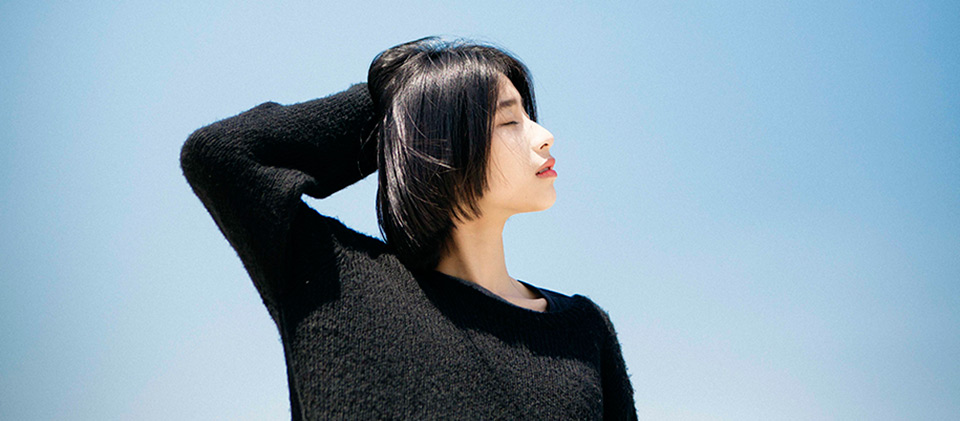
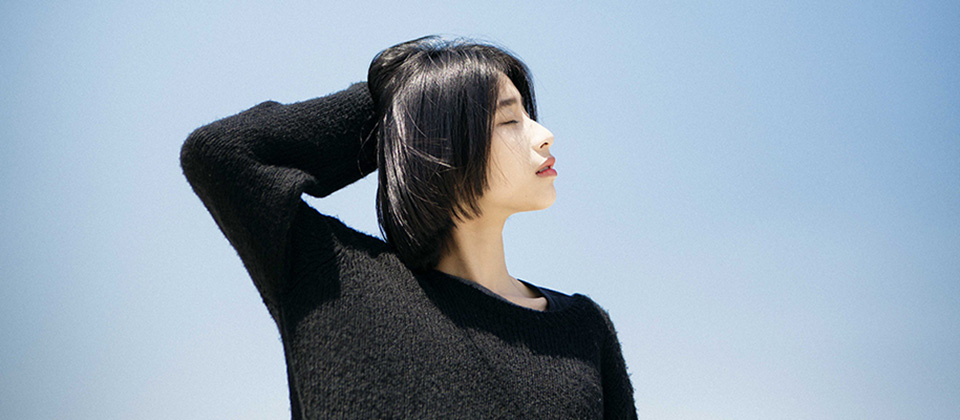
dev

diff --git a/public/css/index.css b/public/css/index.css
@@ -1,2 +1,2 @@
-nav{position:relative;width:100%}nav .nav-top{height:36px;background-color:#f6f6f6;font-family:"Microsoft YaHei"}nav .nav-top .nav-top-detail{position:relative;width:960px;height:36px;margin:0 auto}nav .nav-top .nav-top-detail ul,nav .nav-top .nav-top-detail li{display:inline-block;cursor:pointer;color:#282828;overflow:hidden}nav .nav-top .nav-top-detail li{padding:0 10px;margin-top:11px}nav .nav-top .nav-top-detail .left{float:left;margin-left:-6px}nav .nav-top .nav-top-detail .left li{padding-left:8px;border-left:2px solid #ebebeb;margin-left:-2px}nav .nav-top .nav-top-detail .right{float:right;position:relative;margin-right:-9px}nav .nav-top .nav-top-detail .right li{padding-left:8px;border-left:2px solid #ebebeb;margin-left:-2px}nav .nav-top .nav-top-detail .right li.mobile{padding-left:25px}nav .nav-top .nav-top-detail .right .i-mobile{display:inline-block;background:url(../img/top_icons.png) no-repeat;width:11px;height:14px;background-position:-20px -40px;margin-right:5px;margin-top:2px;position:absolute;top:8px;left:160px;background-color:#f6f6f6}nav .nav-header{height:70px;background-color:#fff}nav .nav-header em{display:inline-block;float:left;width:58px;height:34px;background:url(../img/sprite.png) no-repeat -135px -81px;transform:scale(1.1);-webkit-transform:scale(1.1);margin-top:16px}nav .nav-header .content{position:relative;width:960px;margin:0 auto}nav .nav-header .content img{position:relative;top:20px}nav .nav-header .content .search-bar{display:inline-block;float:right;position:relative;margin-top:15px}nav .nav-header .content .search-bar input{padding-right:83px;width:309px;height:18px;font-size:14px;padding:10px 66px 10px 10px;border:1px solid #e3e3e3;border-top-right-radius:2px;border-bottom-right-radius:2px}nav .nav-header .content .search-bar input:focus{border:1px solid #1fb495}nav .nav-header .content .search-bar .search-btn{position:absolute;box-sizing:border-box;top:0;right:0;width:70px;height:40px;cursor:pointer;text-align:center;line-height:40px;border:1px solid #e3e3e3;color:#999;border-top-right-radius:2px;border-bottom-right-radius:2px}nav .nav-header .content .search-bar .search-btn:hover{background-color:#38c9ab;color:#fff}nav .nav-header .content .search-bar .search-btn-foucs{background-color:#1fb495;border:1px solid #38c9ab;color:#fff}nav .nav-bar{position:relative;background-color:#1fb495;border-bottom:1px solid #19b494;width:100%;height:39px;line-height:40px;box-shadow:0 2px 2px rgba(0,0,0,0.1);-webkit-box-shadow:0 2px 2px rgba(0,0,0,0.1);z-index:3}nav .nav-bar .nav-bar-menu{width:960px;margin:0 auto;font-size:16px;overflow:hidden}nav .nav-bar .nav-bar-menu span{display:inline-block;height:40px;padding:0 25px;line-height:40px;border-right:1px solid #29a98f;color:#fff}nav .nav-bar .nav-bar-menu span.left{float:left}nav .nav-bar .nav-bar-menu span.right{float:right;margin-right:0;border-left:1px solid #29a98f}nav .nav-bar .nav-bar-menu span.right i{display:inline-block;width:16px;height:16px;margin-right:8px;position:relative;top:2px;background:url(../img/ren_icon.png) no-repeat}nav .nav-bar .nav-bar-menu .active{background-color:#38c9ab}nav .nav-bar .nav-bar-menu span.index{border-left:1px solid #29a98f;padding-left:20px;padding-right:61px}nav .nav-bar .nav-bar-menu span:hover{cursor:pointer;background-color:#38c9ab}nav .nav-bar .nav-bar-menu span.span-hover{cursor:pointer;background-color:#38c9ab}nav .nav-bar .nav-bar-layout{display:none;position:absolute;z-index:999999;top:40px;height:148px;width:100%;background-color:#f1f1f1;background-color:rgba(241,241,241,0.9);transition:all .2s ease-in;-webkit-box-shadow:0 1px 2px rgba(0,0,0,0.6);-moz-box-shadow:0 1px 2px rgba(0,0,0,0.6);box-shadow:0 1px 2px rgba(0,0,0,0.6)}nav .nav-bar .nav-bar-layout .category{width:960px;position:relative;margin:0 auto}nav .nav-bar .nav-bar-layout .category ul{display:inline-block;float:left;width:114px;height:148px;border-right:1px solid #acadad;vertical-align:top}nav .nav-bar .nav-bar-layout .category ul:first-child{margin-left:83px;border-left:1px solid #acadad}nav .nav-bar .nav-bar-layout .category ul:last-child{position:absolute;right:0;width:138px;border-left:1px solid #acadad;border-right:1px solid #acadad}nav .nav-bar .nav-bar-layout .category ul:last-child li{width:138px}nav .nav-bar .nav-bar-layout .category ul li{height:30px;width:114px;text-align:center}nav .nav-bar .nav-bar-layout .category ul li a{line-height:21px;font-size:14px;display:inline-block}nav .nav-bar .nav-bar-layout .category ul li a i{margin-left:6px;margin-right:6px}nav .nav-bar .nav-bar-layout .category ul li:first-child{margin-top:12px}nav .nav-bar .nav-bar-layout .category ul a:hover i{color:#1fb495;border-bottom:2px solid #1fb495}nav .nav-bar .nav-bar-layout .category ul a:hover i.love{color:red;border-bottom:2px red solid}nav .nav-bar .nav-bar-layout .category ul.ul-active{background-color:rgba(241,241,241,0.98)}@media screen and (min-width: 1400px){nav .nav-top .nav-top-detail{width:1205px}nav .nav-header .content{width:1205px}nav .nav-bar .nav-bar-menu{width:1205px}nav .nav-bar .nav-bar-layout .category{width:1205px}}html,body{height:100%;font-family:"Microsoft YaHei";background-color:#e1ebed}.container{width:100%;height:100%}.wrap1{width:100%}.wrap1 .slider div.flexslider{margin:0px auto 20px;position:relative;width:100%;height:420px;overflow:hidden;zoom:1}.wrap1 .slider div.flexslider ul.slides li{width:100%;height:420px}.wrap1 .slider div.flexslider ul.slides li.bg1{background-color:#a3c3cd}.wrap1 .slider div.flexslider ul.slides li.bg2{background-color:#EBE0DE}.wrap1 .slider div.flexslider ul.slides li.bg3{background-color:#B19336}.wrap1 .slider div.flexslider ul.slides li span{width:960px;height:420px}.wrap1 .slider div.flexslider ul.slides li span.slider1{background:url(../img/slider/slider1_m.jpg) no-repeat center center}.wrap1 .slider div.flexslider ul.slides li span.slider2{background:url(../img/slider/slider2_m.jpg) no-repeat center center}.wrap1 .slider div.flexslider ul.slides li span.slider3{background:url(../img/slider/slider3_m.jpg) no-repeat center center}.wrap1 .slider div.flexslider ol.flex-control-nav{width:100%;position:absolute;bottom:18px;text-align:center;cursor:default;z-index:1}.wrap1 .slider div.flexslider ol.flex-control-nav li{margin:0 2px;display:inline-block;zoom:1;*display:inline}.wrap1 .slider div.flexslider ol.flex-control-nav li a{background:url(../img/slider/dot.png) no-repeat 0 -16px;display:block;height:16px;overflow:hidden;text-indent:-99em;width:16px;cursor:pointer}.wrap1 .slider div.flexslider .flex-control-paging li a.flex-active,.wrap1 .slider div.flexslider .flex-control-paging li.active a{background-position:0 0}.category{position:relative;top:-440px}.category .layout{position:relative;width:960px;left:50%;margin-left:-480px}.album-category{width:196px;height:414px;position:relative;z-index:2;left:50%;margin-left:-480px;background-color:rgba(31,180,149,0.8);border:1px solid #29a98f;border-top:1px solid #1fb495;padding:2px}.album-category li{width:169px;height:69px;padding-left:15px;padding-right:15px}.album-category li a{color:#fff}.album-category li.active{background-color:#fff}.album-category li.active a{color:#656565}.album-category li.active .tag{border-bottom:1px rgba(31,180,149,0.8) solid}.album-category li .title{box-sizing:content-box;font-size:15px;font-weight:bold;vertical-align:top;padding-top:15px;padding-bottom:5px}.album-category li .title a:hover{color:#1fb495;border-bottom:2px #1fb495 solid}.album-category li .tag{margin-top:5px;margin-bottom:5px;border-bottom:1px #fff dotted;cursor:default}.album-category li .tag span{padding:3px;padding-bottom:11px}.album-category li .tag span:first-child{padding-left:0}.album-category li .tag a:hover{color:#1fb495;border-bottom:2px #1fb495 solid}.album-category li:last-child .tag{border-bottom:0px #fff dotted}.album-category-detail{display:none;position:absolute;z-index:2;top:0px;left:202px;width:600px;height:414px;background-color:#fff;-webkit-background-clip:content-box;-moz-background-clip:content-box;background-clip:content-box;border:3px rgba(31,180,149,0.8) solid;border-left:0}.album-category-detail li{display:none}.wrap2{position:relative;top:-466px;width:100%;padding-bottom:50px;background-color:#e1ebed;font-size:20px}.wrap2>div{position:relative;width:1003px;left:50%;margin-left:-480px;margin-top:80px;padding-top:80px;overflow:hidden}.wrap2>div .nav-category{position:absolute;top:0;width:960px;height:35px;background-color:#f3f3f3;border:1px solid #ddd;border-radius:1px}.wrap2>div .nav-category span.name{display:inline-block;width:120px;height:35px;font-size:16px;line-height:35px;text-align:center;font-weight:bolder;background-color:#1fb495;border-bottom-left-radius:1px;border-top-left-radius:1px;color:#fff}.wrap2>div .nav-category span.name:hover{background-color:#38c9ab;cursor:default}.wrap2>div .nav-category a.more{position:relative;display:inline-block;margin-left:770px;top:-1px;width:50px;height:18px;line-height:18px;text-align:center;font-size:12px;color:#1fb495}.wrap2>div .nav-category a.more:hover{background-color:#38c9ab;border:1px solid #38c9ab;border-radius:12px;color:#fff}.wrap2>div ul{overflow:hidden;height:400px}.wrap2>div ul li{float:left;width:157.6px;height:226px;padding:0 43px 13px 0}.wrap2>div ul li div.album-wrap{width:155px;font:12px/1.5 Tahoma, Helvetica, Arial, sans-serif}.wrap2>div ul li div.album-wrap .album-frame{position:relative;width:155px;height:155px;background:url(../img/album_frame.png) no-repeat 0 0;padding:1px 0 0 1px;background-position:-25px -209px}.wrap2>div ul li div.album-wrap .album-frame .count{position:absolute;right:15px;bottom:15px;height:22px;line-height:22px;color:#fff;-webkit-border-radius:3px;border-radius:3px;padding:0 11px;cursor:pointer;vertical-align:middle;background:url(../img/count_bg.png) repeat-x 0 0;_background:#555}.wrap2>div ul li div.album-wrap .album-detail .album-title{margin-top:6px;color:#555}.wrap2>div ul li div.album-wrap .album-detail .album-date{margin-top:4px;width:155px;white-space:nowrap;color:#888;cursor:default}.wrap3{position:relative;top:-502px;width:100%;height:450px;background-color:#fff}.wrap3 .sub-wrap{position:relative;margin:0 auto;width:380px;height:300px;text-align:center;top:56px}.wrap3 .sub-wrap .logo{width:111px;height:73px;background:url(../img/sprite.png) no-repeat;margin:0 auto;transform:scale(0.9);-webkit-transform:scale(0.9)}.wrap3 .sub-wrap .text{margin-top:72px;margin-bottom:45px;font-size:20px;font-family:"FangSong"}.wrap3 .sub-wrap .QR-code{width:285px;height:108px;background:url(../img/sprite.png) no-repeat 0 -159px;margin:0 auto}.wrap3 .sub-wrap .QR-text{font-family:"FangSong";font-size:14px}.wrap3 .sub-wrap .QR-text span{margin:5px}.wrap3 .line-bt{position:absolute;bottom:0;width:100%;background-color:#f7f7f7}.wrap3 .line-bt:before{content:"";display:inline-block;padding-bottom:0.78%;width:0}@media screen and (min-width: 1400px){.wrap1 .album-category{margin-left:-602.5px}.wrap1 .slider div.flexslider{height:482px}.wrap1 .slider div.flexslider ul.slides li{height:474px}.wrap1 .slider div.flexslider ul.slides li span{width:1205px;height:474px}.wrap1 .slider div.flexslider ul.slides li span.slider1{background:url(../img/slider/slider1.jpg) no-repeat center center}.wrap1 .slider div.flexslider ul.slides li span.slider2{background:url(../img/slider/slider2.jpg) no-repeat center center}.wrap1 .slider div.flexslider ul.slides li span.slider3{background:url(../img/slider/slider3.jpg) no-repeat center center}.wrap1 .slides-control .content{width:1205px}.category{top:-502px}.category .layout{width:1205px;margin-left:-602.5px}.album-category{height:468px}.album-category li{height:78px}.album-category li .title{padding-top:18px}.album-category li .tag span{padding-bottom:17px}.album-category-detail{height:468px}.wrap2{top:-506px}.wrap2>div{width:1252px;margin-left:-602.5px}.wrap2>div .nav-category{width:1203px}.wrap2>div .nav-category a.more{margin-left:1015px}.wrap2>div ul{height:475px}.wrap2>div ul li{padding:8px 51px 16px 0}.wrap3{height:510px}.wrap3 .sub-wrap{top:82px}.wrap3 .sub-wrap .logo{transform:scale(1.1);-webkit-transform:scale(1.1)}.wrap3 .sub-wrap .text{font-size:18px}}footer{width:100%;position:relative;top:-502px;height:160px;background-color:#e1ebed}footer .wrap{display:inline-block;position:absolute;width:960px;overflow:hidden;left:50%;margin-left:-480px;top:50%;margin-top:-50px}footer .wrap .left{float:left;width:390px;height:100px}footer .wrap .left .title{overflow:hidden;position:relative;margin-bottom:5px;margin-top:13px}footer .wrap .left .title img{position:relative;left:12px}footer .wrap .left .info{margin-left:10px;font-size:14px;font-family:"FangSong";line-height:30px;font-weight:200;cursor:default}footer .wrap .middle{position:absolute;width:300px;height:100px;left:50%;margin-left:-150px;text-align:center;padding-top:30px}footer .wrap .middle a{background-color:rgba(0,0,0,0.2);display:inline-block;font-family:"Ionicons";color:rgba(255,255,255,0.92);font-size:22px;height:40px;width:40px;line-height:40px;border-radius:20px;overflow:hidden;text-align:center;margin-right:6px;text-shadow:0 1px 1px rgba(0,0,0,0.3)}footer .wrap .middle a:hover{background-color:#1fb495}footer .wrap .middle a i{transform:scale(0.9);-webkit-transform:scale(0.9)}footer .wrap .middle a .fa-qq{transform:scale(0.8);-webkit-transform:scale(0.8)}footer .wrap .right{float:right;width:200px;height:100px}footer .wrap .right .info{margin-left:10px;font-size:14px;font-family:"FangSong";line-height:30px;font-weight:200;cursor:default}footer .wrap .right .info a:hover{background-color:#1fb495;color:#fff}@media screen and (min-width: 1400px){footer .wrap{width:1205px;margin-left:-602.5px}}
+nav{position:relative;width:100%}nav .nav-top{height:36px;background-color:#f6f6f6;font-family:"Microsoft YaHei"}nav .nav-top .nav-top-detail{position:relative;width:960px;height:36px;margin:0 auto}nav .nav-top .nav-top-detail ul,nav .nav-top .nav-top-detail li{display:inline-block;cursor:pointer;color:#282828;overflow:hidden}nav .nav-top .nav-top-detail li{padding:0 10px;margin-top:11px}nav .nav-top .nav-top-detail .left{float:left;margin-left:-6px}nav .nav-top .nav-top-detail .left li{padding-left:8px;border-left:2px solid #ebebeb;margin-left:-2px}nav .nav-top .nav-top-detail .right{float:right;position:relative;margin-right:-9px}nav .nav-top .nav-top-detail .right li{padding-left:8px;border-left:2px solid #ebebeb;margin-left:-2px}nav .nav-top .nav-top-detail .right li.mobile{padding-left:25px}nav .nav-top .nav-top-detail .right .i-mobile{display:inline-block;background:url(../img/top_icons.png) no-repeat;width:11px;height:14px;background-position:-20px -40px;margin-right:5px;margin-top:2px;position:absolute;top:8px;left:160px;background-color:#f6f6f6}nav .nav-header{height:70px;background-color:#fff}nav .nav-header em{display:inline-block;float:left;width:58px;height:34px;background:url(../img/sprite.png) no-repeat -135px -81px;transform:scale(1.1);-webkit-transform:scale(1.1);margin-top:16px}nav .nav-header .content{position:relative;width:960px;margin:0 auto}nav .nav-header .content img{position:relative;top:20px}nav .nav-header .content .search-bar{display:inline-block;float:right;position:relative;margin-top:15px}nav .nav-header .content .search-bar input{padding-right:83px;width:309px;height:18px;font-size:14px;padding:10px 66px 10px 10px;border:1px solid #e3e3e3;border-top-right-radius:2px;border-bottom-right-radius:2px}nav .nav-header .content .search-bar input:focus{border:1px solid #1fb495}nav .nav-header .content .search-bar .search-btn{position:absolute;box-sizing:border-box;top:0;right:0;width:70px;height:40px;cursor:pointer;text-align:center;line-height:40px;border:1px solid #e3e3e3;color:#999;border-top-right-radius:2px;border-bottom-right-radius:2px}nav .nav-header .content .search-bar .search-btn:hover{background-color:#38c9ab;color:#fff}nav .nav-header .content .search-bar .search-btn-foucs{background-color:#1fb495;border:1px solid #38c9ab;color:#fff}nav .nav-bar{position:relative;background-color:#1fb495;border-bottom:1px solid #19b494;width:100%;height:39px;line-height:40px;box-shadow:0 2px 2px rgba(0,0,0,0.1);-webkit-box-shadow:0 2px 2px rgba(0,0,0,0.1);z-index:3}nav .nav-bar .nav-bar-menu{width:960px;margin:0 auto;font-size:16px;overflow:hidden}nav .nav-bar .nav-bar-menu span{display:inline-block;height:40px;padding:0 25px;line-height:40px;border-right:1px solid #29a98f;color:#fff}nav .nav-bar .nav-bar-menu span.left{float:left}nav .nav-bar .nav-bar-menu span.right{float:right;margin-right:0;border-left:1px solid #29a98f}nav .nav-bar .nav-bar-menu span.right i{display:inline-block;width:16px;height:16px;margin-right:8px;position:relative;top:2px;background:url(../img/ren_icon.png) no-repeat}nav .nav-bar .nav-bar-menu .active{background-color:#38c9ab}nav .nav-bar .nav-bar-menu span.index{border-left:1px solid #29a98f;padding-left:20px;padding-right:61px}nav .nav-bar .nav-bar-menu span:hover{cursor:pointer;background-color:#38c9ab}nav .nav-bar .nav-bar-menu span.span-hover{cursor:pointer;background-color:#38c9ab}nav .nav-bar .nav-bar-layout{display:none;position:absolute;z-index:999999;top:40px;height:148px;width:100%;background-color:#f1f1f1;background-color:rgba(241,241,241,0.9);transition:all .2s ease-in;-webkit-box-shadow:0 1px 2px rgba(0,0,0,0.6);-moz-box-shadow:0 1px 2px rgba(0,0,0,0.6);box-shadow:0 1px 2px rgba(0,0,0,0.6)}nav .nav-bar .nav-bar-layout .category{width:960px;position:relative;margin:0 auto}nav .nav-bar .nav-bar-layout .category ul{display:inline-block;float:left;width:114px;height:148px;border-right:1px solid #acadad;vertical-align:top}nav .nav-bar .nav-bar-layout .category ul:first-child{margin-left:83px;border-left:1px solid #acadad}nav .nav-bar .nav-bar-layout .category ul:last-child{position:absolute;right:0;width:138px;border-left:1px solid #acadad;border-right:1px solid #acadad}nav .nav-bar .nav-bar-layout .category ul:last-child li{width:138px}nav .nav-bar .nav-bar-layout .category ul li{height:30px;width:114px;text-align:center}nav .nav-bar .nav-bar-layout .category ul li a{line-height:21px;font-size:14px;display:inline-block}nav .nav-bar .nav-bar-layout .category ul li a i{margin-left:6px;margin-right:6px}nav .nav-bar .nav-bar-layout .category ul li:first-child{margin-top:12px}nav .nav-bar .nav-bar-layout .category ul a:hover i{color:#1fb495;border-bottom:2px solid #1fb495}nav .nav-bar .nav-bar-layout .category ul a:hover i.love{color:red;border-bottom:2px red solid}nav .nav-bar .nav-bar-layout .category ul.ul-active{background-color:rgba(241,241,241,0.98)}@media screen and (min-width: 1400px){nav .nav-top .nav-top-detail{width:1205px}nav .nav-header .content{width:1205px}nav .nav-bar .nav-bar-menu{width:1205px}nav .nav-bar .nav-bar-layout .category{width:1205px}}html,body{height:100%;font-family:"Microsoft YaHei";background-color:#e1ebed}.container{width:100%;height:100%}.wrap1{width:100%}.wrap1 .slider div.flexslider{margin:0px auto 20px;position:relative;width:100%;height:420px;overflow:hidden;zoom:1}.wrap1 .slider div.flexslider ul.slides li{width:100%;height:420px}.wrap1 .slider div.flexslider ul.slides li.bg1{background-color:#77aed0}.wrap1 .slider div.flexslider ul.slides li.bg2{background-color:#EBE0DE}.wrap1 .slider div.flexslider ul.slides li.bg3{background-color:#B19336}.wrap1 .slider div.flexslider ul.slides li span{width:960px;height:420px}.wrap1 .slider div.flexslider ul.slides li span.slider1{background:url(../img/slider/slider1_m.jpg) no-repeat center center}.wrap1 .slider div.flexslider ul.slides li span.slider2{background:url(../img/slider/slider2_m.jpg) no-repeat center center}.wrap1 .slider div.flexslider ul.slides li span.slider3{background:url(../img/slider/slider3_m.jpg) no-repeat center center}.wrap1 .slider div.flexslider ol.flex-control-nav{width:100%;position:absolute;bottom:18px;text-align:center;cursor:default;z-index:1}.wrap1 .slider div.flexslider ol.flex-control-nav li{margin:0 2px;display:inline-block;zoom:1;*display:inline}.wrap1 .slider div.flexslider ol.flex-control-nav li a{background:url(../img/slider/dot.png) no-repeat 0 -16px;display:block;height:16px;overflow:hidden;text-indent:-99em;width:16px;cursor:pointer}.wrap1 .slider div.flexslider .flex-control-paging li a.flex-active,.wrap1 .slider div.flexslider .flex-control-paging li.active a{background-position:0 0}.category{position:relative;top:-440px}.category .layout{position:relative;width:960px;left:50%;margin-left:-480px}.album-category{width:196px;height:414px;position:relative;z-index:2;left:50%;margin-left:-480px;background-color:rgba(31,180,149,0.8);border:1px solid #29a98f;border-top:1px solid #1fb495;padding:2px}.album-category li{width:169px;height:69px;padding-left:15px;padding-right:15px}.album-category li a{color:#fff}.album-category li.active{background-color:#fff}.album-category li.active a{color:#656565}.album-category li.active .tag{border-bottom:1px rgba(31,180,149,0.8) solid}.album-category li .title{box-sizing:content-box;font-size:15px;font-weight:bold;vertical-align:top;padding-top:15px;padding-bottom:5px}.album-category li .title a:hover{color:#1fb495;border-bottom:2px #1fb495 solid}.album-category li .tag{margin-top:5px;margin-bottom:5px;border-bottom:1px #fff dotted;cursor:default}.album-category li .tag span{padding:3px;padding-bottom:11px}.album-category li .tag span:first-child{padding-left:0}.album-category li .tag a:hover{color:#1fb495;border-bottom:2px #1fb495 solid}.album-category li:last-child .tag{border-bottom:0px #fff dotted}.album-category-detail{display:none;position:absolute;z-index:2;top:0px;left:202px;width:600px;height:414px;background-color:#fff;-webkit-background-clip:content-box;-moz-background-clip:content-box;background-clip:content-box;border:3px rgba(31,180,149,0.8) solid;border-left:0}.album-category-detail li{display:none}.wrap2{position:relative;top:-466px;width:100%;padding-bottom:50px;background-color:#e1ebed;font-size:20px}.wrap2>div{position:relative;width:1003px;left:50%;margin-left:-480px;margin-top:80px;padding-top:80px;overflow:hidden}.wrap2>div .nav-category{position:absolute;top:0;width:960px;height:35px;background-color:#f3f3f3;border:1px solid #ddd;border-radius:1px}.wrap2>div .nav-category span.name{display:inline-block;width:120px;height:35px;font-size:16px;line-height:35px;text-align:center;font-weight:bolder;background-color:#1fb495;border-bottom-left-radius:1px;border-top-left-radius:1px;color:#fff}.wrap2>div .nav-category span.name:hover{background-color:#38c9ab;cursor:default}.wrap2>div .nav-category a.more{position:relative;display:inline-block;margin-left:770px;top:-1px;width:50px;height:18px;line-height:18px;text-align:center;font-size:12px;color:#1fb495}.wrap2>div .nav-category a.more:hover{background-color:#38c9ab;border:1px solid #38c9ab;border-radius:12px;color:#fff}.wrap2>div ul{overflow:hidden;height:400px}.wrap2>div ul li{float:left;width:157.6px;height:226px;padding:0 43px 13px 0}.wrap2>div ul li div.album-wrap{width:155px;font:12px/1.5 Tahoma, Helvetica, Arial, sans-serif}.wrap2>div ul li div.album-wrap .album-frame{position:relative;width:155px;height:155px;background:url(../img/album_frame.png) no-repeat 0 0;padding:1px 0 0 1px;background-position:-25px -209px}.wrap2>div ul li div.album-wrap .album-frame .count{position:absolute;right:15px;bottom:15px;height:22px;line-height:22px;color:#fff;-webkit-border-radius:3px;border-radius:3px;padding:0 11px;cursor:pointer;vertical-align:middle;background:url(../img/count_bg.png) repeat-x 0 0;_background:#555}.wrap2>div ul li div.album-wrap .album-detail .album-title{margin-top:6px;color:#555}.wrap2>div ul li div.album-wrap .album-detail .album-date{margin-top:4px;width:155px;white-space:nowrap;color:#888;cursor:default}.wrap3{position:relative;top:-502px;width:100%;height:450px;background-color:#fff}.wrap3 .sub-wrap{position:relative;margin:0 auto;width:380px;height:300px;text-align:center;top:56px}.wrap3 .sub-wrap .logo{width:111px;height:73px;background:url(../img/sprite.png) no-repeat;margin:0 auto;transform:scale(0.9);-webkit-transform:scale(0.9)}.wrap3 .sub-wrap .text{margin-top:72px;margin-bottom:45px;font-size:20px;font-family:"FangSong"}.wrap3 .sub-wrap .QR-code{width:285px;height:108px;background:url(../img/sprite.png) no-repeat 0 -159px;margin:0 auto}.wrap3 .sub-wrap .QR-text{font-family:"FangSong";font-size:14px}.wrap3 .sub-wrap .QR-text span{margin:5px}.wrap3 .line-bt{position:absolute;bottom:0;width:100%;background-color:#f7f7f7}.wrap3 .line-bt:before{content:"";display:inline-block;padding-bottom:0.78%;width:0}@media screen and (min-width: 1400px){.wrap1 .album-category{margin-left:-602.5px}.wrap1 .slider div.flexslider{height:482px}.wrap1 .slider div.flexslider ul.slides li{height:474px}.wrap1 .slider div.flexslider ul.slides li span{width:1205px;height:474px}.wrap1 .slider div.flexslider ul.slides li span.slider1{background:url(../img/slider/slider1.jpg) no-repeat center center}.wrap1 .slider div.flexslider ul.slides li span.slider2{background:url(../img/slider/slider2.jpg) no-repeat center center}.wrap1 .slider div.flexslider ul.slides li span.slider3{background:url(../img/slider/slider3.jpg) no-repeat center center}.wrap1 .slides-control .content{width:1205px}.category{top:-502px}.category .layout{width:1205px;margin-left:-602.5px}.album-category{height:468px}.album-category li{height:78px}.album-category li .title{padding-top:18px}.album-category li .tag span{padding-bottom:17px}.album-category-detail{height:468px}.wrap2{top:-506px}.wrap2>div{width:1252px;margin-left:-602.5px}.wrap2>div .nav-category{width:1203px}.wrap2>div .nav-category a.more{margin-left:1015px}.wrap2>div ul{height:475px}.wrap2>div ul li{padding:8px 51px 16px 0}.wrap3{height:510px}.wrap3 .sub-wrap{top:82px}.wrap3 .sub-wrap .logo{transform:scale(1.1);-webkit-transform:scale(1.1)}.wrap3 .sub-wrap .text{font-size:18px}}footer{width:100%;position:relative;top:-502px;height:160px;background-color:#e1ebed}footer .wrap{display:inline-block;position:absolute;width:960px;overflow:hidden;left:50%;margin-left:-480px;top:50%;margin-top:-50px}footer .wrap .left{float:left;width:390px;height:100px}footer .wrap .left .title{overflow:hidden;position:relative;margin-bottom:5px;margin-top:13px}footer .wrap .left .title img{position:relative;left:12px}footer .wrap .left .info{margin-left:10px;font-size:14px;font-family:"FangSong";line-height:30px;font-weight:200;cursor:default}footer .wrap .middle{position:absolute;width:300px;height:100px;left:50%;margin-left:-150px;text-align:center;padding-top:30px}footer .wrap .middle a{background-color:rgba(0,0,0,0.2);display:inline-block;font-family:"Ionicons";color:rgba(255,255,255,0.92);font-size:22px;height:40px;width:40px;line-height:40px;border-radius:20px;overflow:hidden;text-align:center;margin-right:6px;text-shadow:0 1px 1px rgba(0,0,0,0.3)}footer .wrap .middle a:hover{background-color:#1fb495}footer .wrap .middle a i{transform:scale(0.9);-webkit-transform:scale(0.9)}footer .wrap .middle a .fa-qq{transform:scale(0.8);-webkit-transform:scale(0.8)}footer .wrap .right{float:right;width:200px;height:100px}footer .wrap .right .info{margin-left:10px;font-size:14px;font-family:"FangSong";line-height:30px;font-weight:200;cursor:default}footer .wrap .right .info a:hover{background-color:#1fb495;color:#fff}@media screen and (min-width: 1400px){footer .wrap{width:1205px;margin-left:-602.5px}}
 /*# sourceMappingURL=index.css.map */

diff --git a/public/scss/_middle_index.scss b/public/scss/_middle_index.scss
@@ -26,7 +26,7 @@ body {
 			ul.slides li {
 				width: 100%;
 				height: 420px;
-				&.bg1 {background-color: #a3c3cd;}
+				&.bg1 {background-color: #77aed0;}
 				&.bg2 {background-color: #EBE0DE;}
 				&.bg3 {background-color: #B19336;}
 				span {
